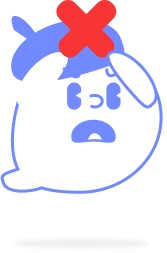
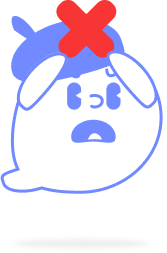
Feat: 반응하기 디자인 작업

Changed region(s): [[0.0898, 0.1937, 0.4192, 0.4427]]

diff --git a/src/pages/ClassRoom.tsx b/src/pages/ClassRoom.tsx
@@ -311,21 +311,42 @@ const ClassRoom = () => {
 					<ClassTeacher>{classInfo?.teacher}</ClassTeacher>
 				</ClassInfo>
 				<Stream />
-				<MyName>{user.name}</MyName>
-				<MyState src={`/images/my${myState}.png`}/>
-				<button onClick={() => changeMyState('correct')}>Correct</button>
-				<button onClick={() => changeMyState('incorrect')}>Incorrect</button>
-				<button onClick={() => changeMyState('away')}>Away</button>
-				{students.map((student: studentType) => {
-					if (student.userId !== user.id) {
-						return (
-							<li key={student.userId}>
-								<p>{student.name}</p>
-								<p>{student.state}</p>
-							</li>
-						);
-					}
-				})}
+				<StateBox>
+					<MyStateBox>
+						<UpperBox>
+							<MyName>{user.name}</MyName>
+							<StateButtons>
+								<StateButton
+									onClick={() => changeMyState('correct')}
+									src='/images/correctbutton.png'
+								/>
+								<Hr />
+								<StateButton
+									onClick={() => changeMyState('incorrect')}
+									src='/images/incorrectbutton.png'
+								/>
+								<Hr />
+								<StateButton
+									onClick={() => changeMyState('away')}
+									src='/images/awaybutton.png'
+								/>
+							</StateButtons>
+						</UpperBox>
+						<MyStateCharacter src={`/images/my${myState}.png`} />
+					</MyStateBox>
+					<StudentStateBox>
+						{students.map((student: studentType) => {
+							if (student.userId !== user.id) {
+								return (
+									<StudentBox key={student.userId}>
+										<StudentName>{student.name}</StudentName>
+										<StudentState src={`/images/${student.state}.png`} />
+									</StudentBox>
+								);
+							}
+						})}
+					</StudentStateBox>
+				</StateBox>
 			</LeftBox>
 			<div>
 				<label>
@@ -434,18 +455,96 @@ const ClassTeacher = styled.h4`
 	color: #b6b6b6;
 `;
 
-const LeftBox = styled.div`
+const LeftBox = styled.div``;
+
+const StateBox = styled.div`
+	margin-top: 40px;
+	display: flex;
+`;
+
+const MyStateBox = styled.div`
+	width: 490px;
+	height: 300px;
+	margin-right: 22px;
+`;
+
+const UpperBox = styled.div`
+	display: flex;
+	align-items: center;
+	justify-content: space-between;
 `;
 
 const MyName = styled.h2`
 	font-size: 24px;
 	font-weight: bold;
-`
+`;
 
-const MyState = styled.div<{src: string}>`
-	background-image: url(${({src})=> src});
-	background-position: center center;
+const MyStateCharacter = styled.div<{ src: string }>`
+	background-image: url(${({ src }) => src});
+	background-position: left center;
 	background-repeat: no-repeat;
 	width: 300px;
 	height: 300px;
-`
+`;
+
+const StateButtons = styled.div`
+	width: 276px;
+	height: 72px;
+	border-radius: 7px;
+	box-shadow: 0 4px 4px rgba(0, 0, 0, 0.1);
+	display: flex;
+	align-items: center;
+`;
+
+const StateButton = styled.button<{ src: string }>`
+	background: none;
+	border: none;
+	background-image: url(${({ src }) => src});
+	background-position: center center;
+	background-repeat: no-repeat;
+	width: 90px;
+	height: 72px;
+	cursor: pointer;
+`;
+
+const Hr = styled.hr`
+	border: none;
+	border-radius: 1px;
+	width: 2px;
+	height: 30px;
+	background-color: #d2d2d2;
+`;
+
+const StudentStateBox = styled.div`
+	width: 380px;
+	height: 300px;
+	border-radius: 10px;
+	box-shadow: 0 4px 4px rgba(0, 0, 0, 0.1);
+	display: flex;
+	flex-wrap: nowrap;
+	padding: 35px;
+`;
+
+const StudentBox = styled.div`
+	height: 63px;
+	width: 50px;
+	flex: 0;
+	& + & {
+		margin-left: 35px;
+	}
+`;
+
+const StudentName = styled.h4`
+	font-size: 12px;
+	font-weight: bold;
+	text-align: center;
+	margin-bottom: 8px;
+`;
+
+const StudentState = styled.div<{ src: string }>`
+	background-image: url(${({ src }) => src});
+	background-position: center center;
+	background-repeat: no-repeat;
+	width: 50px;
+	height: 50px;
+`;
